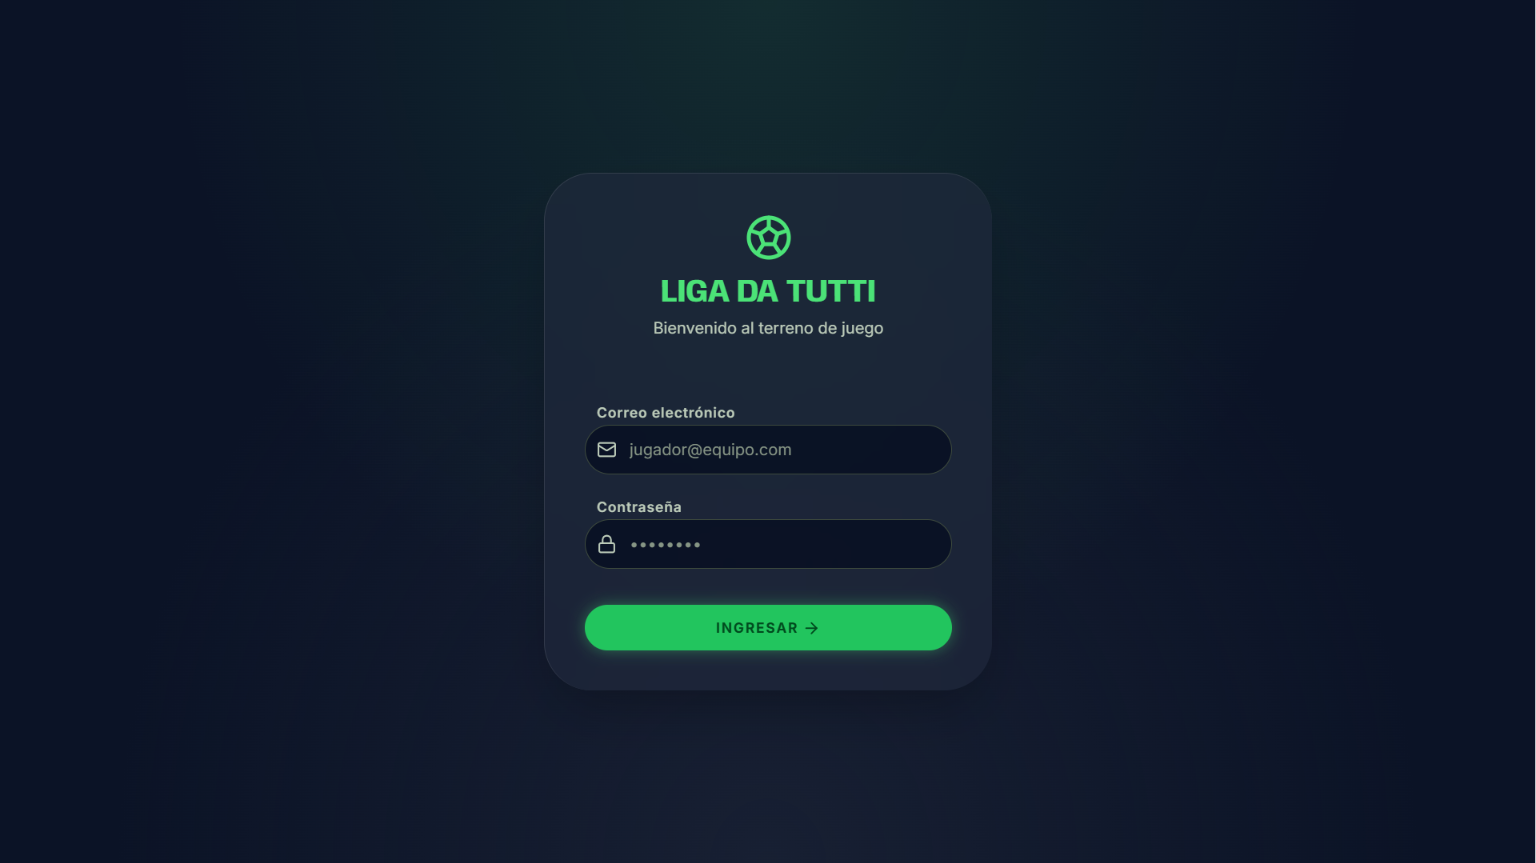
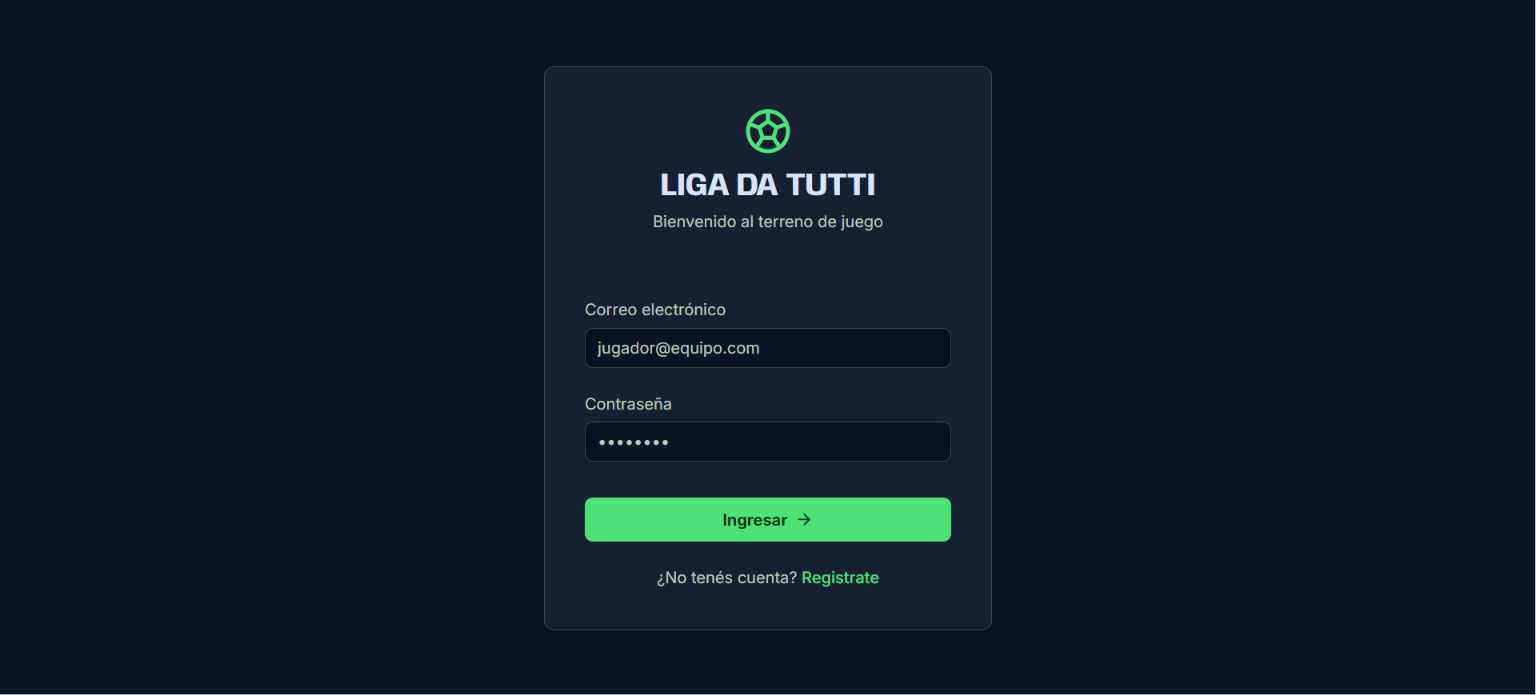
fix: improve styles and added images to readme

diff --git a/frontend/src/features/stats/Stats.jsx b/frontend/src/features/stats/Stats.jsx
@@ -75,57 +75,68 @@ export default function Stats() {
         </div>
       ) : (
         <>
-          <section className="grid grid-cols-1 sm:grid-cols-2 md:grid-cols-3 gap-md">
+          <section className="grid grid-cols-1 sm:grid-cols-2 lg:grid-cols-3 xl:grid-cols-5 gap-sm">
             <StatCard
+              compact
               label="Total Partidos"
               value={stats.totalMatches}
               icon="list"
             />
             <StatCard
+              compact
               label="Finalizados"
               value={stats.finishedCount}
               icon="check_circle"
             />
             <StatCard
+              compact
               label="Programados"
               value={stats.scheduledCount}
               icon="schedule"
             />
             <StatCard
+              compact
               label="Cancelados"
               value={stats.cancelledCount}
               icon="cancel"
             />
             <StatCard
+              compact
               label="Goles Totales"
               value={stats.totalGoals}
               icon="sports_soccer"
               accent
             />
             <StatCard
+              compact
               label="Promedio Goles"
               value={stats.avgGoals}
               icon="leaderboard"
               accent
             />
             <StatCard
+              compact
               label="Tarjetas Amarillas"
               value={stats.totalYellowCards}
               icon="crop_portrait"
             />
             <StatCard
+              compact
               label="Tarjetas Rojas"
               value={stats.totalRedCards}
               icon="crop_portrait"
             />
             <StatCard
+              compact
               label="Total Torneos"
               value={stats.totalTournaments}
               icon="trophy"
             />
             <StatCard
+              compact
               label="Equipo Líder"
               value={leaderName}
+              valueClassName="text-headline-md break-words"
               icon="leaderboard"
               accent
             />

diff --git a/frontend/src/features/stats/components/StatCard.jsx b/frontend/src/features/stats/components/StatCard.jsx
@@ -6,9 +6,15 @@ export default function StatCard({
   value,
   icon = "sports_soccer",
   accent = false,
+  compact = false,
+  valueClassName,
 }) {
   return (
-    <div className="bg-card border border-border rounded-lg p-md flex flex-col justify-between h-36">
+    <div
+      className={cn(
+        "bg-card border border-border rounded-lg flex flex-col justify-between",
+        compact ? "h-28 p-sm" : "h-36 p-md",
+      )}>
       <div className="flex justify-between items-start gap-sm">
         <h3 className="font-label-md text-label-md text-muted-foreground uppercase tracking-wider">
           {label}
@@ -27,6 +33,7 @@ export default function StatCard({
         className={cn(
           "font-score-display text-score-display",
           accent ? "text-primary" : "text-foreground",
+          valueClassName,
         )}>
         {value}
       </span>

diff --git a/frontend/README.md b/frontend/README.md
@@ -107,23 +107,51 @@ Otras decisiones de diseño relevantes:
 
 ## Capturas de pantalla
 
-### Login
+### Acceso
 
-![Login](/src/assets/screen_login.png)
+#### Inicio de sesión
 
-### Admin Dashboard
+![Pantalla de inicio de sesión](./src/assets/screen_login.png)
 
-![Admin Dashboard](/src/assets/screen_admin.png)
+#### Registro
 
-### Usuario - home
+![Pantalla de registro](./src/assets/screen_register.png)
 
-![Usuario - home](/src/assets/screen_common.png)
+### Administrador
 
-### Usuario - organizar
+#### Panel de estadísticas
 
-![Usuario - organizar](/src/assets/screen_organizer.png)
+![Panel de estadísticas del administrador](./src/assets/screen_admin_stats.png)
 
-> Nota: las capturas corresponden a una versión anterior de la interfaz (previa a torneos, subida de imágenes y estadísticas por torneo); tengo que actualizarlas xd tarea para mi yo del futuro
+#### Gestión de equipos
+
+![Gestión de equipos del administrador](./src/assets/screen_admin_teams.png)
+
+#### Gestión de torneos
+
+![Gestión de torneos del administrador](./src/assets/screen_admin_tournaments.png)
+
+### Organizador
+
+#### Fixture
+
+![Fixture del organizador](./src/assets/screen_common_fixture.png)
+
+#### Crear partido
+
+![Formulario para crear un partido](./src/assets/screen_common_matches_new.png)
+
+#### Editar partido
+
+![Formulario para editar un partido](./src/assets/screen_common_edit_game.png)
+
+#### Gestión de equipos
+
+![Gestión de equipos del organizador](./src/assets/screen_common_teams.png)
+
+#### Gestión de torneos
+
+![Gestión de torneos del organizador](./src/assets/screen_common_tournaments.png)
 
 ## 🔗 Links
 
